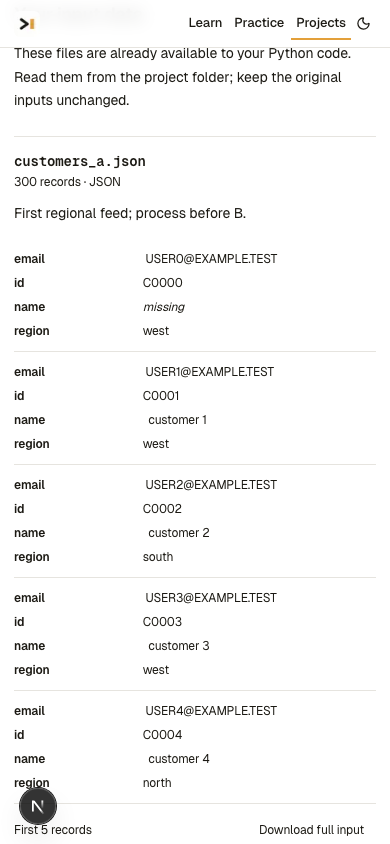
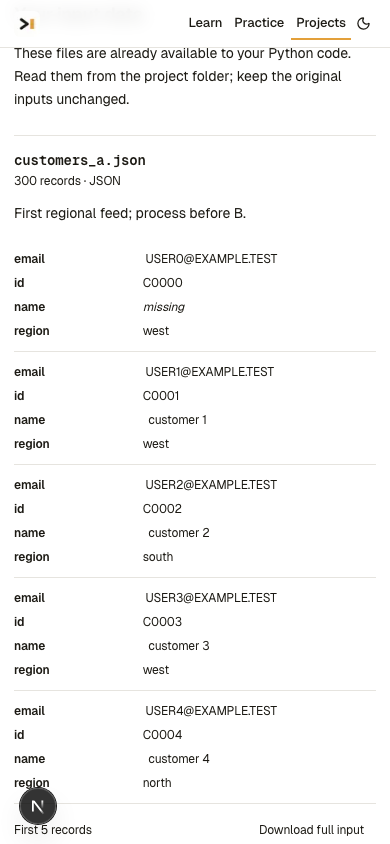
Explain Python project prerequisites, file flow and first steps

diff --git a/src/features/py/projects-v2/Workspace.tsx b/src/features/py/projects-v2/Workspace.tsx
@@ -12,6 +12,7 @@ import {PROJECT_STORAGE_KEY,freshDraft,readDraft,writeDraft,snapshot,canDeliver,
 import {downloadZip} from './archive';
 import './projects.css';
 import {DataPreview} from './DataPreview';
+import {projectGuidance} from '@/content/python/projects-v2/guidance';
 
 export function ProjectCatalog({projects}:{projects:Pick<ProjectV2,'ref'|'slug'|'title'|'level'|'milestones'|'objective'|'datasets'>[]}){return <Shell subject="python" section="projects" path={[{label:'python',href:'/python'},{label:'projects'}]}><div className="py-project-v2 pv-catalog"><p className="rx-label">Python Projects</p><h1>Build something that works.</h1><p>Connected Python files, realistic synthetic inputs, executable tests, and deliverables from your own program.</p><div className="pv-projects">{projects.map(p=><Link key={p.ref} href={`/python/projects/${p.slug}`}><span className="rx-label">{p.level} · {p.milestones.length} milestones</span><h2>{p.title}</h2><p>{p.objective}</p><span>{p.datasets.reduce((n,d)=>n+d.rows,0).toLocaleString()} input records across {p.datasets.length} files →</span></Link>)}</div></div></Shell>;}
 
@@ -23,6 +24,7 @@ export function ProjectWorkspace({project,initialStage}:{project:ProjectV2;initi
  useEffect(()=>{try{const raw=localStorage.getItem(PROJECT_STORAGE_KEY);const loaded=readDraft(raw,project);if(initialStage){const i=project.milestones.findIndex(m=>m.id===initialStage);if(i>=0)loaded.milestone=i;}if(!Object.hasOwn(loaded.files,loaded.selected))loaded.selected=Object.keys(loaded.files).find(name=>name!=='main.py')??'main.py';setDraft(loaded);}catch{setStorageError('Browser storage is unavailable. Download your work before leaving.');}setReady(true);},[project,initialStage]);
  useEffect(()=>{if(!ready)return;try{localStorage.setItem(PROJECT_STORAGE_KEY,writeDraft(localStorage.getItem(PROJECT_STORAGE_KEY),project,draft));setStorageError('');}catch{setStorageError('Work could not be saved in this browser. Download your work before leaving; existing saved data has not been replaced.');}},[draft,ready,project]);
  useEffect(()=>{if(!ready||!workspace.current)return;const node=workspace.current;const observer=new ResizeObserver(()=>node.style.setProperty('--pv-work-height',`${node.offsetHeight}px`));observer.observe(node);return()=>observer.disconnect();},[ready]);
+ const guidance=projectGuidance[project.slug];
  const current=project.milestones[draft.milestone]??project.milestones[0];const editable=Object.hasOwn(draft.files,draft.selected);const text=editable?draft.files[draft.selected]:project.files[draft.selected]??'';
  const complete=canDeliver(project,draft);const stale=runSnapshot!==snapshot(draft.files);
  const artifactList=run&&'files' in run.result?run.result.files??[]:draft.evidence?.artifacts??[];
@@ -48,7 +50,9 @@ export function ProjectWorkspace({project,initialStage}:{project:ProjectV2;initi
   {storageError&&<p className="pv-warning" role="alert">{storageError}</p>}
 
   <div className="pv-layout">
-   <article className="pv-brief"><h2>Build plan</h2><nav className="pv-milestones" aria-label="Project milestones">{project.milestones.map((m,i)=><button key={m.id} aria-current={i===draft.milestone?'step':undefined} onClick={()=>setDraft(d=>({...d,milestone:i}))}><span>{i+1}.</span> {m.title}{draft.milestones[m.id]?.passed?' ✓':''}</button>)}</nav>
+   <article className="pv-brief">
+    {guidance&&<section className="pv-orientation"><h2>Start here</h2><p><strong>What you should know:</strong> {guidance.skills}</p><h3>How the files connect</h3><p>{guidance.flow}</p><h3>A concrete example</h3><p>{guidance.example}</p><ol><li>Start with milestone 1. Open the Python file named in its instructions and replace that function’s <code>raise NotImplementedError(...)</code> with your code.</li><li>Use <strong>Check milestone</strong> after each step. It checks your current milestone and the earlier ones.</li><li>After implementing all the functions, use <strong>Run project</strong> to execute <code>main.py</code> and generate the output files.</li><li>Use <strong>Check complete project</strong> before downloading your finished work.</li></ol><p className="rx-small">The starter is intentionally unfinished. A NotImplementedError means a function still needs your code. main.py already connects the steps; read it to see how your functions are called. Each function’s docstring describes its inputs and return value.</p></section>}
+    <h2>Build plan</h2><nav className="pv-milestones" aria-label="Project milestones">{project.milestones.map((m,i)=><button key={m.id} aria-current={i===draft.milestone?'step':undefined} onClick={()=>setDraft(d=>({...d,milestone:i}))}><span>{i+1}.</span> {m.title}{draft.milestones[m.id]?.passed?' ✓':''}</button>)}</nav>
     <section className="pv-task"><p className="rx-label">Milestone {draft.milestone+1} of {project.milestones.length}</p><h2>{current.title}</h2><p>{current.objective}</p><ul>{current.requirements.map(r=><li key={r}>{r}</li>)}</ul><p className="rx-small">Your files carry across every milestone. Checks include the earlier milestones. Run project executes main.py; Check milestone tests the reusable functions, so unfinished later steps do not block you.</p></section>
     <section className="pv-files"><h2>Project files</h2><p>Choose a Python file to edit on the right. Input data and supplied tests open here.</p><div className="pv-explorer" role="group" aria-label="File explorer"><div><p className="rx-label">Editable code</p>{Object.keys(draft.files).map(name=><button className="rx-btn" key={name} aria-pressed={draft.selected===name} onClick={()=>setDraft(d=>({...d,selected:name}))}>{name}</button>)}</div><div><p className="rx-label">Inputs & tests · read only</p>{Object.keys(project.files).filter(name=>name!=='_expected.json').map(name=><button className="rx-btn" key={name} aria-pressed={inspected===name} onClick={()=>setInspected(name)}>{name}</button>)}</div></div>
 
@@ -65,7 +69,7 @@ export function ProjectWorkspace({project,initialStage}:{project:ProjectV2;initi
     <PyEditor key={draft.selected} value={text} onChange={value=>setDraft(d=>({...d,files:{...d.files,[d.selected]:value}}))} onRun={()=>execute('run')} onCheck={()=>execute('milestone')} label={`${draft.selected}, project Python editor`} minHeight="280px"/>
     <div className="pv-actions"><button className="rx-btn" disabled={busy} onClick={()=>execute('run')}>Run project</button><button className="rx-btn" disabled={busy} onClick={()=>execute('milestone')}>Check milestone</button><button className="rx-btn primary" disabled={busy} onClick={()=>execute('acceptance')}>Check complete project</button></div>
     <p role="status">{busy?'Running Python…':notice}{run&&stale?' Code changed since this run. Check again before delivery.':''}</p>
-    <section className="pv-output"><h2>Terminal & checks</h2>{run?.report&&<ChecksView busy={busy} checked={{report:run.report,code:runSnapshot}} edited={stale}/>}{!run?.report&&<ConsoleView busy={busy} live={[]} ran={run?{result:'files' in run.result?{...run.result,files:[]}:run.result,code:runSnapshot}:null} edited={stale}/>}</section>
+    <section className="pv-output"><h2>Terminal & checks</h2>{run?.report&&<ChecksView busy={busy} checked={{report:run.report,code:runSnapshot}} edited={stale}/>}{!run&&!busy?<p>Use Check milestone to test the current step, or Run project to execute main.py.</p>:!run?.report&&<ConsoleView busy={busy} live={[]} ran={run?{result:'files' in run.result?{...run.result,files:[]}:run.result,code:runSnapshot}:null} edited={stale}/>}</section>
 
    </section>
   </div>

diff --git a/src/content/python/projects-v2/guidance.ts b/src/content/python/projects-v2/guidance.ts
@@ -1,0 +1,33 @@
+/** Learner-facing orientation. These examples explain the task, not its implementation. */
+export const projectGuidance:Record<string,{skills:string;flow:string;example:string}>={
+ 'customer-data-quality':{
+  skills:'Functions, dictionaries, lists, string methods, and reading/writing JSON.',
+  flow:'main.py reads customers_a.json followed by customers_b.json and loads rules.json. Your functions in cleaning.py normalize and validate those records, then write the clean records, rejections, and quality report.',
+  example:'A customer named "  ana  " with email " ANA@SHOP.COM " becomes name "Ana" and email "ana@shop.com". Keep the original record unchanged. Missing names are handled by the validation milestone, not by inventing a name.'
+ },
+ 'retail-order-engine':{
+  skills:'Functions, dictionaries, loops, integer arithmetic, exceptions, and JSON files.',
+  flow:'main.py loads the product catalog, carts, and pricing rules. checkout.py prices each cart, applies its order status, and produces receipts and a sales summary. Amounts are stored in cents: 1250 means $12.50.',
+  example:'If the catalog price is 1,250 cents and the cart requests two units, its subtotal is 2,500 cents. Apply the configured discount before tax. A refunded order still has a sale total, but contributes zero net revenue.'
+ },
+ 'csv-sales-analyst':{
+  skills:'Functions, CSV/JSON files, dates, grouping records, and basic matplotlib.',
+  flow:'main.py reads orders, products, payments, and returns. reporting.py validates orders and calculates revenue; charts.py draws the calculated daily totals. Order IDs connect payments and returns to orders; product IDs supply categories.',
+  example:'For a valid paid order with 10,000 cents captured and 2,000 cents returned, net revenue is 8,000 cents. Use the captured payment, even if the order face value is different.'
+ },
+ 'product-event-investigation':{
+  skills:'Functions, JSON lines, timezone-aware dates, grouping/sorting, and basic matplotlib.',
+  flow:'main.py loads the event log and required fields. analytics.py validates events, groups them into sessions, and calculates conversion and retention. charts.py plots weekly activity. Each nonblank log line is one candidate event; some lines are deliberately malformed.',
+  example:'A view at 10:00 followed by a buy at 10:20 counts as a conversion in that session. A buy before the view does not. A gap of exactly 30 minutes stays in the same session; a longer gap starts another.'
+ },
+ 'marketplace-eda':{
+  skills:'pandas DataFrames, filtering, merges, groupby, dates, and basic matplotlib.',
+  flow:'main.py reads orders, customers, and products into DataFrames. analysis.py cleans orders and joins customer cohorts and product categories; charts.py plots monthly cohort revenue. A cohort is the month a customer joined.',
+  example:'If an otherwise valid order has no matching customer, keep its revenue and label its cohort "unknown". Do not drop that order during the join. A repeat customer has at least two retained orders.'
+ },
+ 'reliable-mini-etl':{
+  skills:'Functions, dictionaries, JSON lines, CSV files, exceptions, and sorting.',
+  flow:'main.py reads the existing target, three ordered batches, and the validation schema. pipeline.py parses and validates updates, merges them by ID and version, then writes the updated target and processing report. ETL means extract, transform, and load.',
+  example:'If the target has ID K0001 at version 2, an incoming version 3 replaces it; version 1 does not. Processing the same batches a second time must leave the result unchanged. This is what replay-safe means.'
+ }
+};

diff --git a/src/features/py/projects-v2/projects.css b/src/features/py/projects-v2/projects.css
@@ -73,3 +73,8 @@
 @media(min-width:701px){
  .pv-work { position:sticky; align-self:start; top:min(64px,calc(100dvh - var(--pv-work-height, 700px) - 16px)); }
 }
+.pv-orientation { border-bottom:1px solid var(--rx-line); padding-bottom:18px; }
+.pv-orientation h3 { font-family:inherit; font-size:14px; font-weight:600; line-height:1.5; margin:16px 0 4px; }
+.pv-orientation p { font-size:14px; margin:8px 0; }
+.pv-orientation ol { list-style:decimal; padding-left:20px; font-size:14px; }
+.pv-orientation li { margin:8px 0; }

diff --git a/docs/python/projects-v2/REPORT.md b/docs/python/projects-v2/REPORT.md
@@ -288,3 +288,9 @@ Implementation commits: `c54b86a`, `1fbaac8`; final UI cleanup and verification 
 Project instructions, file navigation, input previews, generated artifacts and delivery controls are in the left column. The right column contains only editable Python, execution controls and terminal/check output. Input samples are visible by default; generation machinery is removed from the learner task view. Data selection previews on the left without replacing code. Tables align fields on desktop and become labeled records on narrow phones. Desktop uses equal columns with a sticky workspace; smaller screens stack naturally without nested editor scrolling.
 
 The six-project layout test verifies file placement, always-visible inputs, preserved editor contents when inspecting data, and no horizontal overflow at 1365, 600, 390 and 360 pixels. The representative workspace passes Axe with no serious or critical violations.
+
+## Learner comprehension review
+
+Reviewed all six project briefs, milestone requirements, starter contracts and their file-loading entry points. This is a heuristic review, not a study with real learners. The previous page described constraints but left prerequisites, file relationships, expected starter errors and the execution sequence implicit. Each project now includes a visible starting guide, task-specific example and prerequisite list. The guide distinguishes milestone checks from executing the full program and final acceptance. Existing placement of task material on the left and editor/output on the right is preserved.
+
+These remain intermediate projects. They assume working knowledge of functions, collection operations and file handling; the analytical projects additionally require dates, plotting and/or pandas. A beginner still needs instruction in those concepts. The guidance improves orientation but does not establish that an unassisted beginner can complete the projects.
